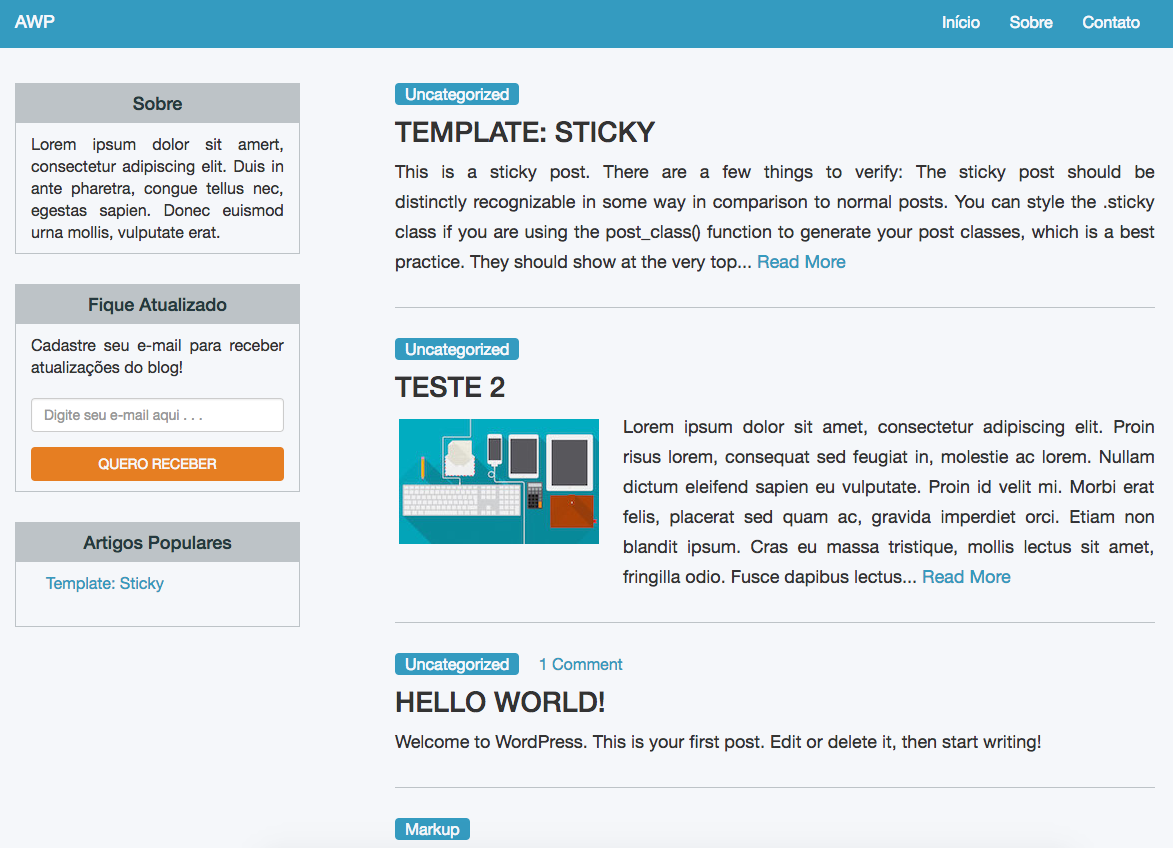
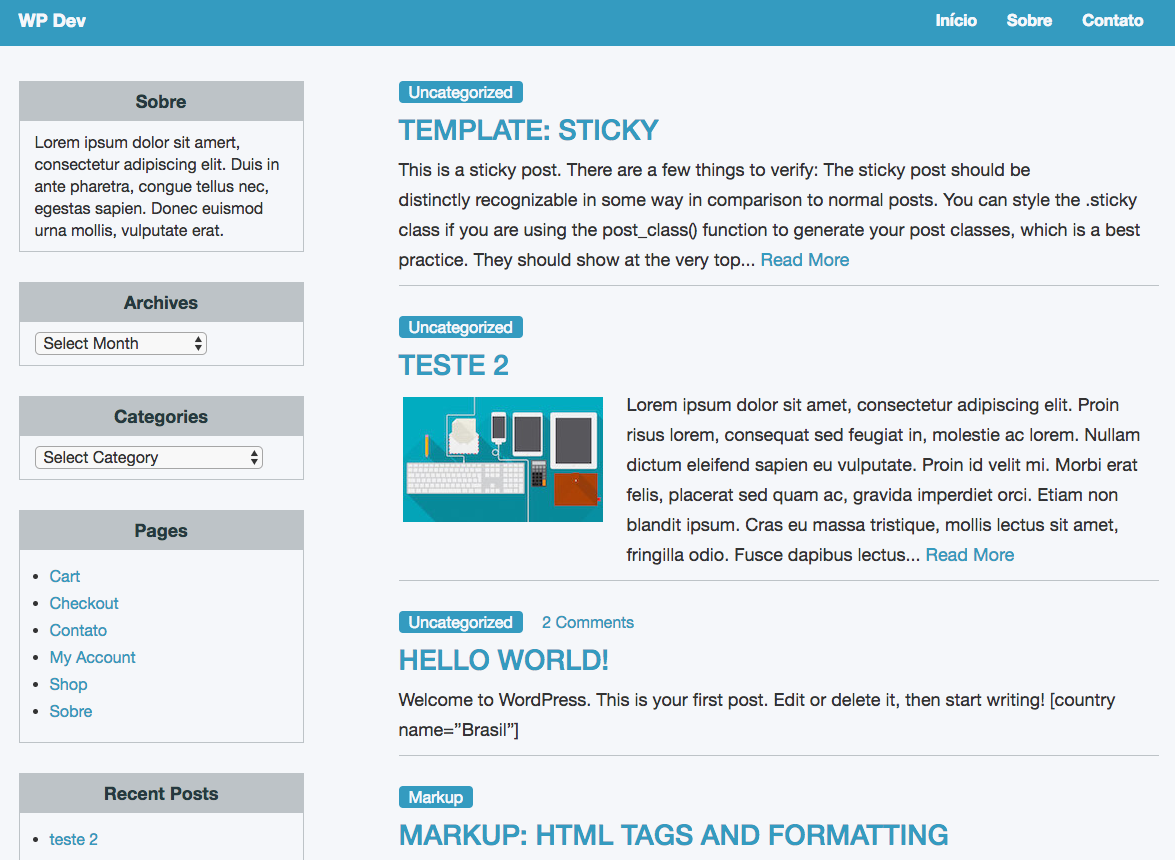
Some adjusts before upload the theme to WordPress.org.

diff --git a/style.css b/style.css
@@ -1,3 +1,39 @@
+/*
+Theme Name: Avalon
+Theme URI: https://github.com/Rahmon/avalon
+Author: Rahmon
+Author URI: https://github.com/Rahmon
+Description: Avalon is a simple theme built with Boostrap 3.3.7.
+Version: 1.0
+License: GNU General Public License v2 or later
+License URI: http://www.gnu.org/licenses/gpl-2.0.html
+Tags: two-columns, left-sidebar, custom-background, custom-colors, custom-header, custom-menu, editor-style, featured-images, blog, translation-ready
+Text Domain: avalon
+*/
+
+
+/**
+ * Table of Contents
+ *
+ * 1.0 - Base
+ * 2.0 - Typography
+ * 3.0 - Button
+ * 4.0 - Icon
+ * 5.0 - Layout
+ * 6.0 - Navbar
+ * 7.0 - Blog
+ * 8.0 - Pagination
+ * 9.0 - Single Post
+ * 10.0 - Page
+ * 11.0 - Widget
+ * 12.0 - Footer
+*/
+
+
+/**
+ * 1.0 - Base
+ */
+
 html {
   position: relative;
   min-height: 100%;
@@ -7,7 +43,11 @@ body {
   margin-bottom: 95px;
 }
 
-/* Typography */
+
+/**
+ * 2.0 - Typography
+ */
+
 body, html {
   font-size: 16px;
 }
@@ -32,7 +72,11 @@ a.category:focus, a.category:hover {
   background-color: #253940 !important;
 }
 
-/* Button */
+
+/**
+ * 3.0 - Button
+ */
+
 .btn-avalon-default {
   font-size: 1rem;
   color: #f5f7fa;
@@ -55,7 +99,11 @@ a.category:focus, a.category:hover {
   color: #f5f7fa;
 }
 
-/* Icon */
+
+/**
+ * 4.0 - Icon
+ */
+
 i.fa {
   color: #349bc0;
 }
@@ -64,7 +112,11 @@ i.fa.not-found {
   font-size: 10rem;
 }
 
-/* Layout */
+
+/**
+ * 5.0 - Layout
+ */
+
 body {
   background-color: #f5f7fa;
 }
@@ -78,7 +130,11 @@ body {
   padding-left: 0;
 }
 
-/* Navbar */
+
+/**
+ * 6.0 - Navbar
+ */
+
 .navbar-default {
   border-radius: 0;
 }
@@ -113,7 +169,11 @@ body {
   color: #f5f7fa !important;
 }
 
-/* Blog */
+
+/**
+ * 7.0 - Blog
+ */
+
 #blog .post {
   clear: both;
   overflow: auto;
@@ -169,7 +229,11 @@ body {
   line-height: 1.7;
 }
 
-/* Pagination */
+
+/**
+ * 8.0 - Pagination
+ */
+
 .pagination {
   margin-top: 0;
 }
@@ -187,7 +251,11 @@ body {
   border: none;
 }
 
-/* Single Post */
+
+/**
+ * 9.0 - Single Post
+ */
+
 .single-post {
   margin-bottom: 40px;
 }
@@ -296,8 +364,10 @@ body {
 }
 
 
+/**
+ * 10.0 - Page
+ */
 
-/* Page */
 #page {
   margin-bottom: 30px;
 }
@@ -306,7 +376,11 @@ body {
   margin-top: 0;
 }
 
-/* Widget */
+
+/**
+ * 11.0 - Widget
+ */
+
 .widget {
   margin-bottom: 30px;
   border: 1px solid #bdc3c7;
@@ -369,7 +443,11 @@ body {
   margin-bottom: 10px;
 }
 
-/* Footer */
+
+/**
+ * 12.0 - Footer
+ */
+
 footer {
   color: #f5f7fa;
   background-color: #fff;
